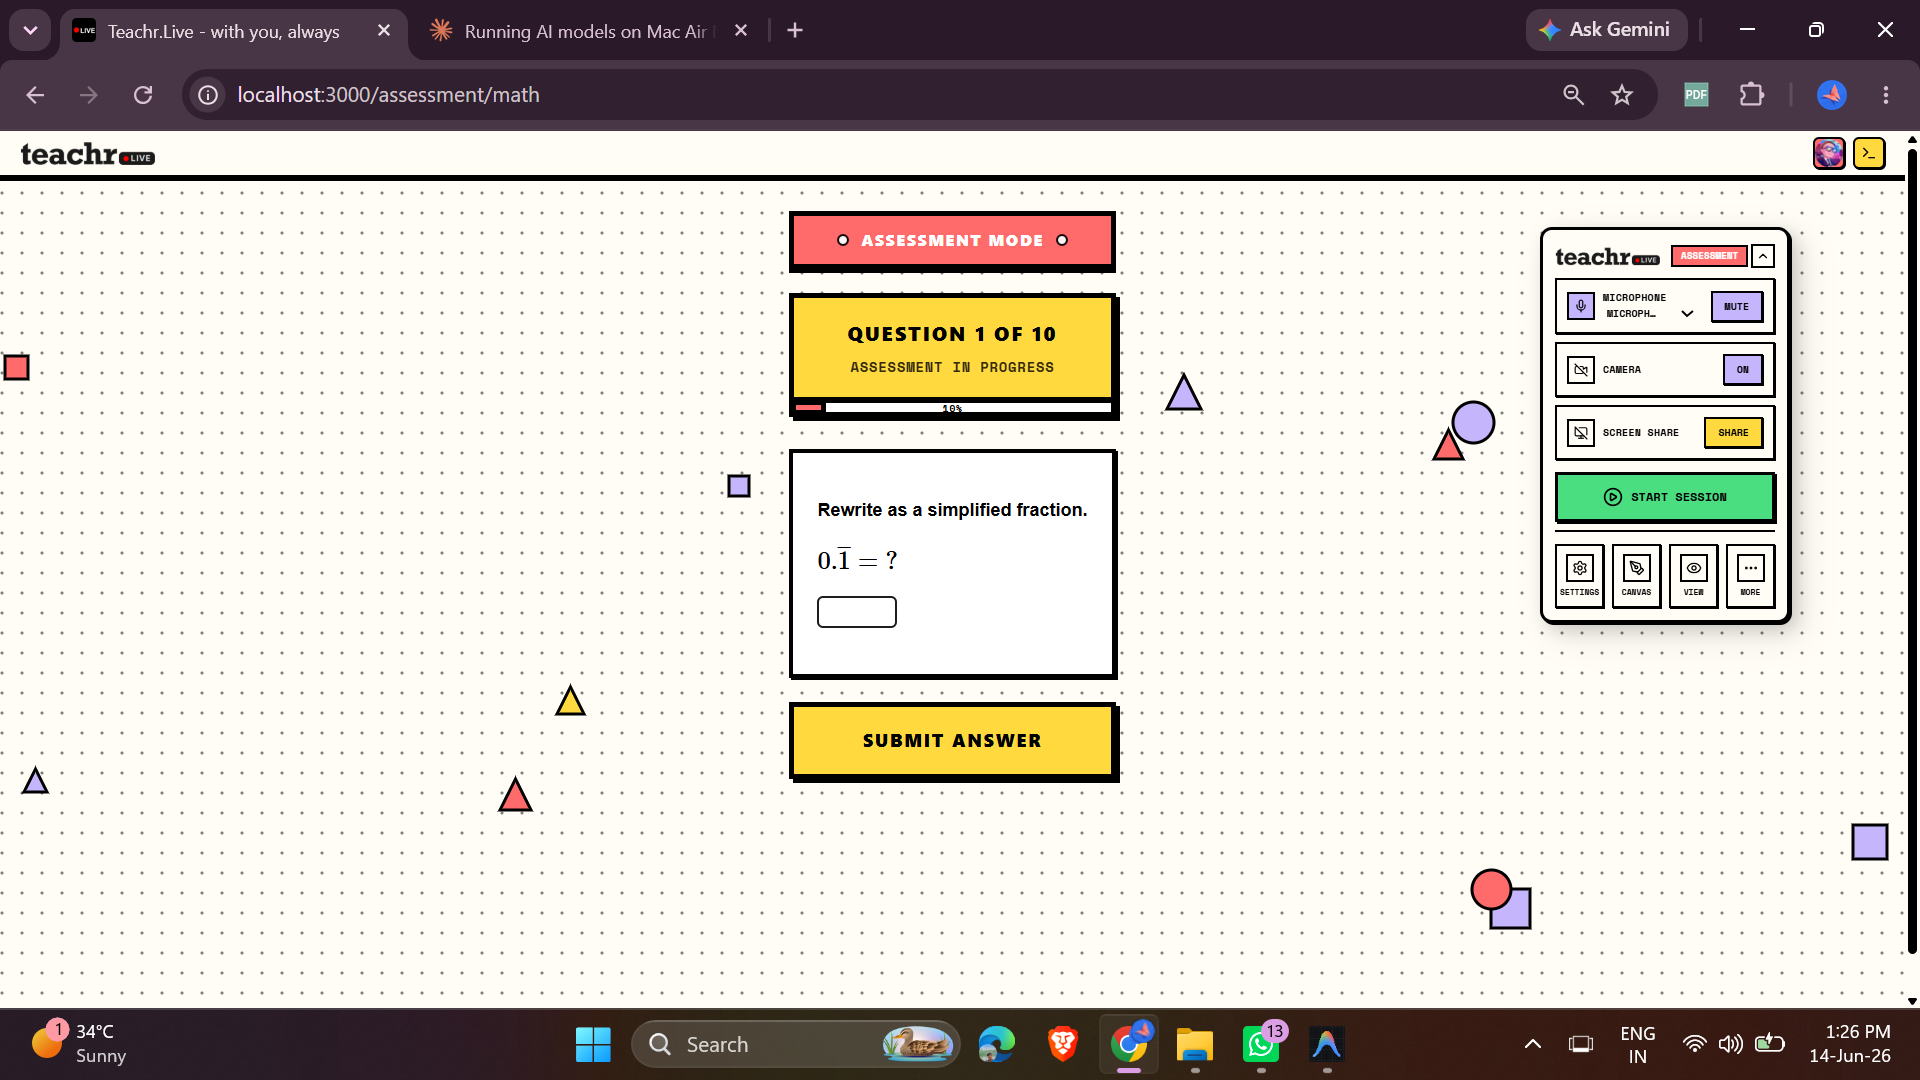
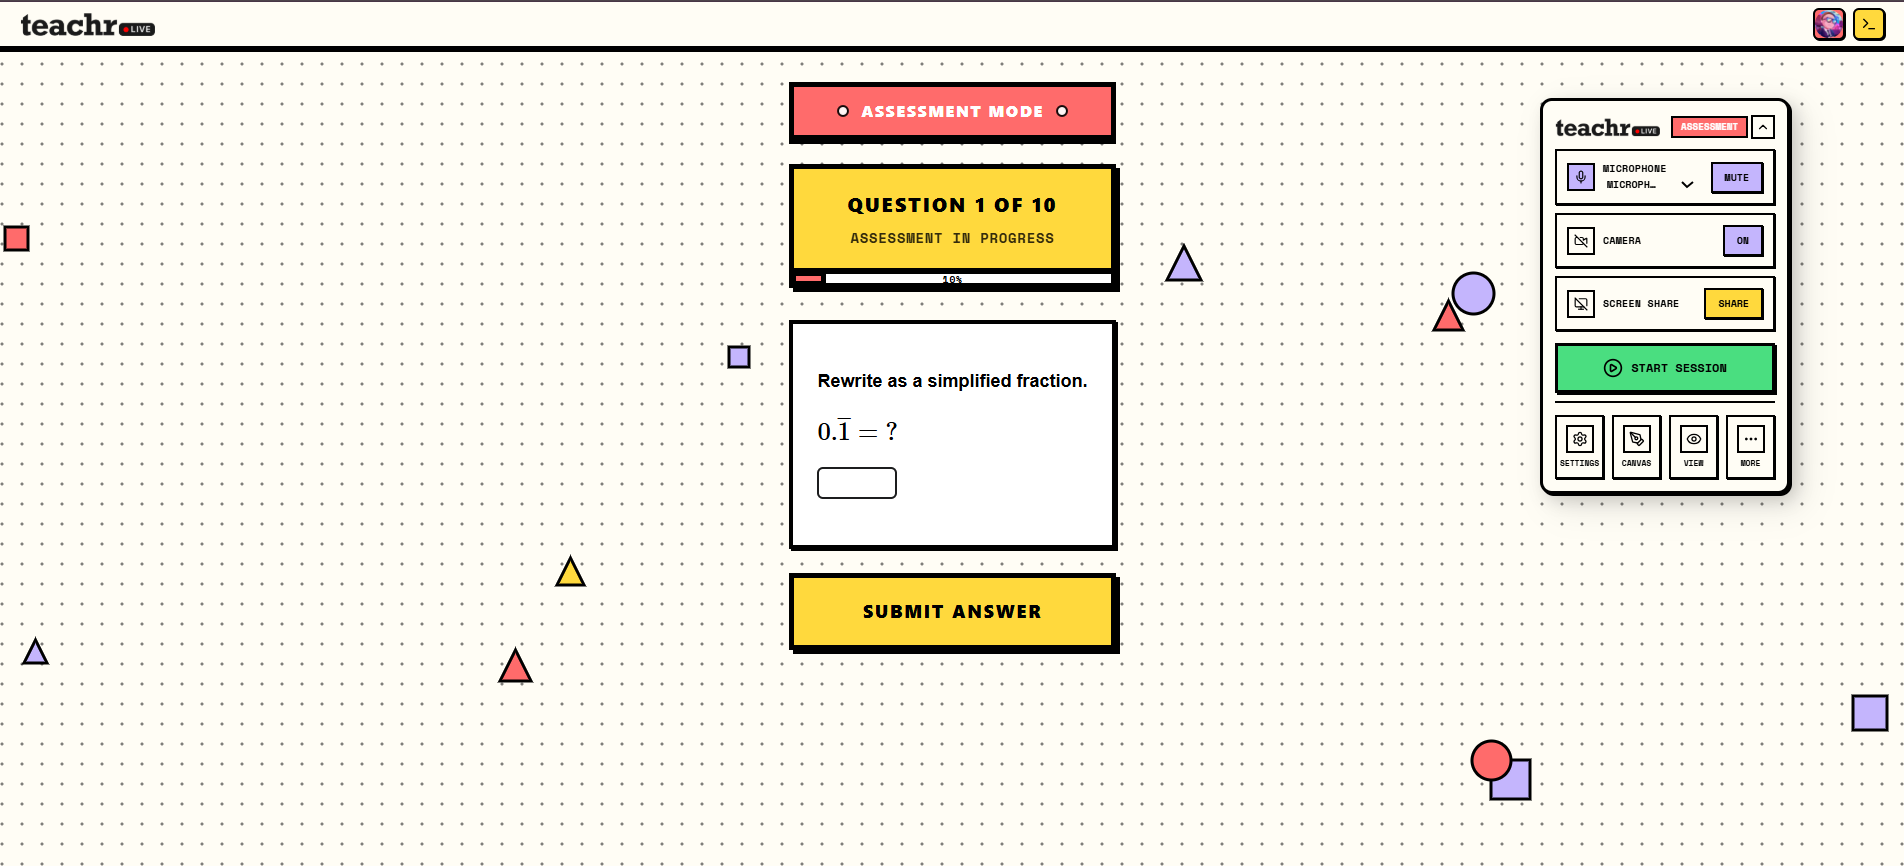
refactire readme

diff --git a/README.md b/README.md
@@ -13,7 +13,7 @@
 [![React](https://img.shields.io/badge/React-18+-61DAFB?style=for-the-badge&logo=react&logoColor=black)](https://reactjs.org)
 [![Pinecone](https://img.shields.io/badge/Pinecone-Vector%20DB-00B4A6?style=for-the-badge)](https://pinecone.io)
 [![MongoDB](https://img.shields.io/badge/MongoDB-Atlas-47A248?style=for-the-badge&logo=mongodb&logoColor=white)](https://mongodb.com)
-[![Google AI](https://img.shields.io/badge/Google-Gemini-4285F4?style=for-the-badge&logo=google&logoColor=white)](https://deepmind.google/technologies/gemini/)
+[![Google AI](https://img.shields.io/badge/Google-Multimodal%20LLM-4285F4?style=for-the-badge&logo=google&logoColor=white)](https://ai.google)
 
 </div>
 
@@ -72,7 +72,7 @@ The Teaching Assistant module is composed of **four interconnected subsystems**,
 
 ## 🗣️ Speech-to-Speech — Live Voice Tutoring
 
-The frontend is built on the **Google Multimodal Live API** — a real-time, low-latency, bidirectional speech model capable of sustained conversation with camera awareness and screen sharing.
+The frontend is built on a real-time, low-latency, bidirectional speech-to-speech connection — capable of sustained multimodal conversation with camera awareness and screen sharing.
 
 ### How It Works
 
@@ -116,7 +116,7 @@ Every 3 conversation turns
          ▼
 ┌──────────────────────────────────────────────┐
 │              MemoryExtractor                  │
-│  (Gemini Flash-Lite, single batch LLM call)  │
+│  (Multimodal LLM, single-batch extraction)   │
 │                                              │
 │  Input:  3 exchanges (user + Adam turns)     │
 │  Output: memories[], emotions[], moments[],  │
@@ -177,7 +177,7 @@ Retrieved Memories + Conversation Context
               ▼
     ┌─────────────────────┐
     │  Reflection Layer   │
-    │  (Gemini Flash-Lite)│
+    │   (Multimodal LLM)  │
     └─────────────────────┘
               │
     ┌─────────┴─────────┐
@@ -351,7 +351,7 @@ Beyond conversation, the module tracks rich session signals:
 | Signal | How |
 |--------|-----|
 | **Screen activity** | Frontend WebRTC screen capture → WebSocket → Event pipeline |
-| **Camera feed** | Browser `getUserMedia` → multimodal stream → Gemini Live API |
+| **Camera feed** | Browser `getUserMedia` → multimodal stream → Multimodal Live API |
 | **Conversation turns** | Transcript via WebSocket → ContextManager → MongoDB |
 | **Inactivity** | SessionMonitor checks last activity timestamp, triggers re-engagement prompts |
 | **Credit consumption** | CostTracker middleware wraps all LLM calls; per-session token accounting |
@@ -399,7 +399,7 @@ Use `--clean` to wipe a user's Pinecone index before starting fresh.
 - Node.js 18+
 - MongoDB Atlas URI
 - Pinecone API Key + Project
-- Google AI (Gemini) API Key
+- Google AI (Multimodal LLM) API Key
 
 ### 1. Configure Environment
 